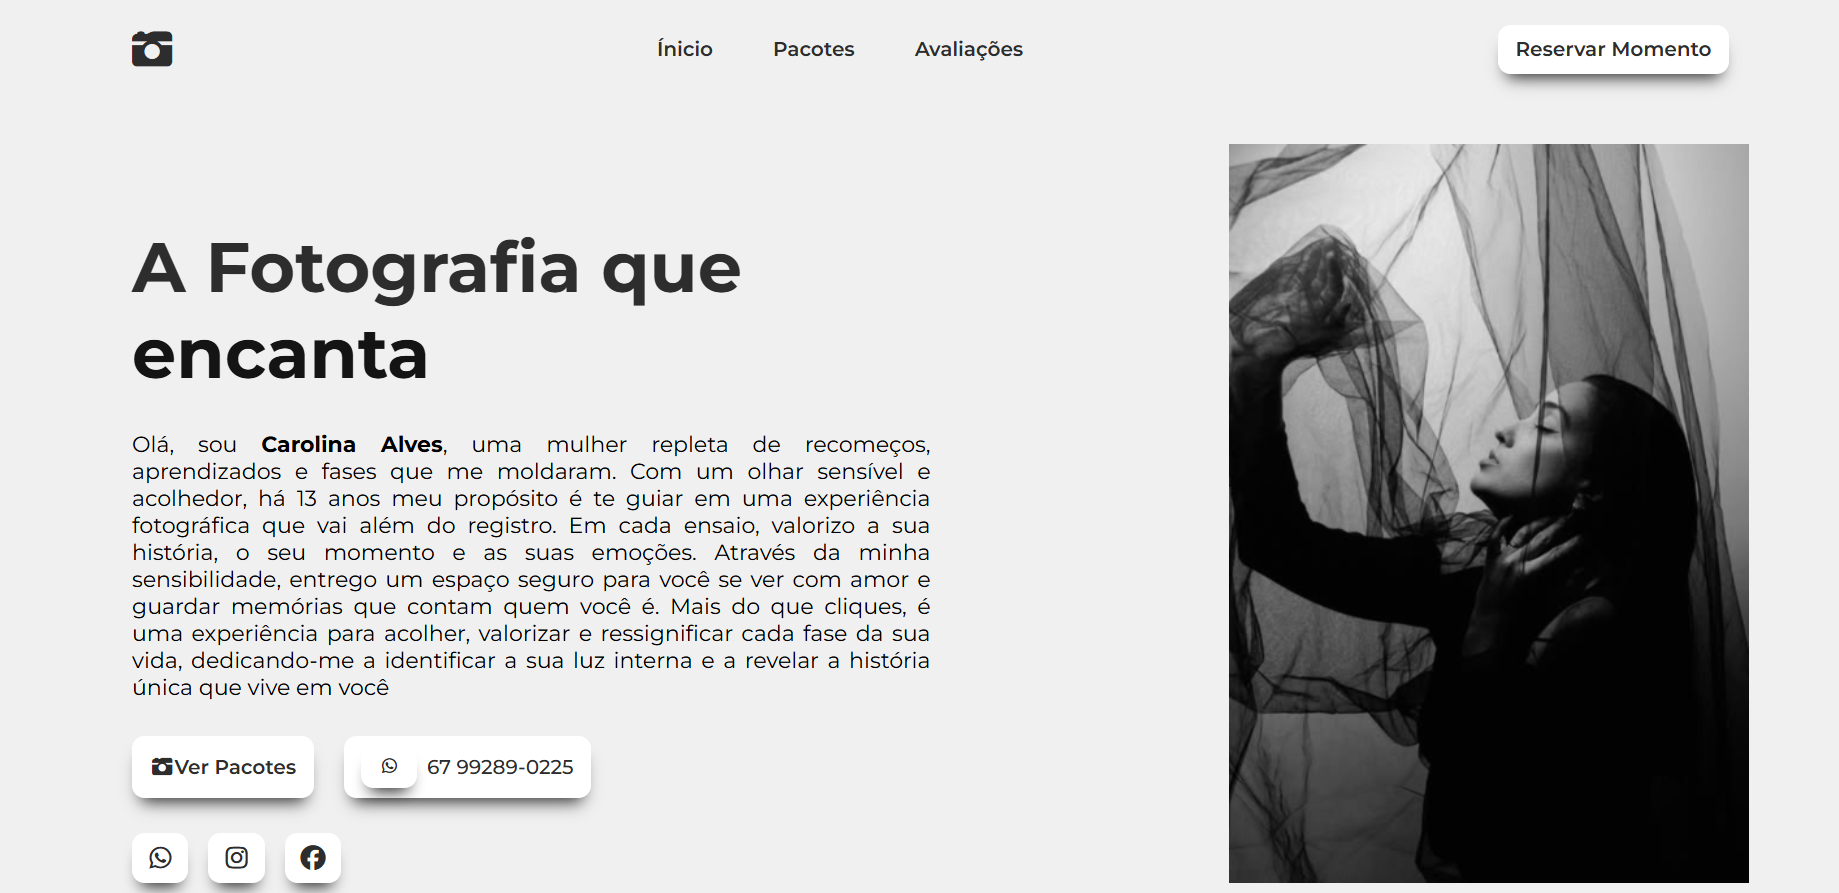
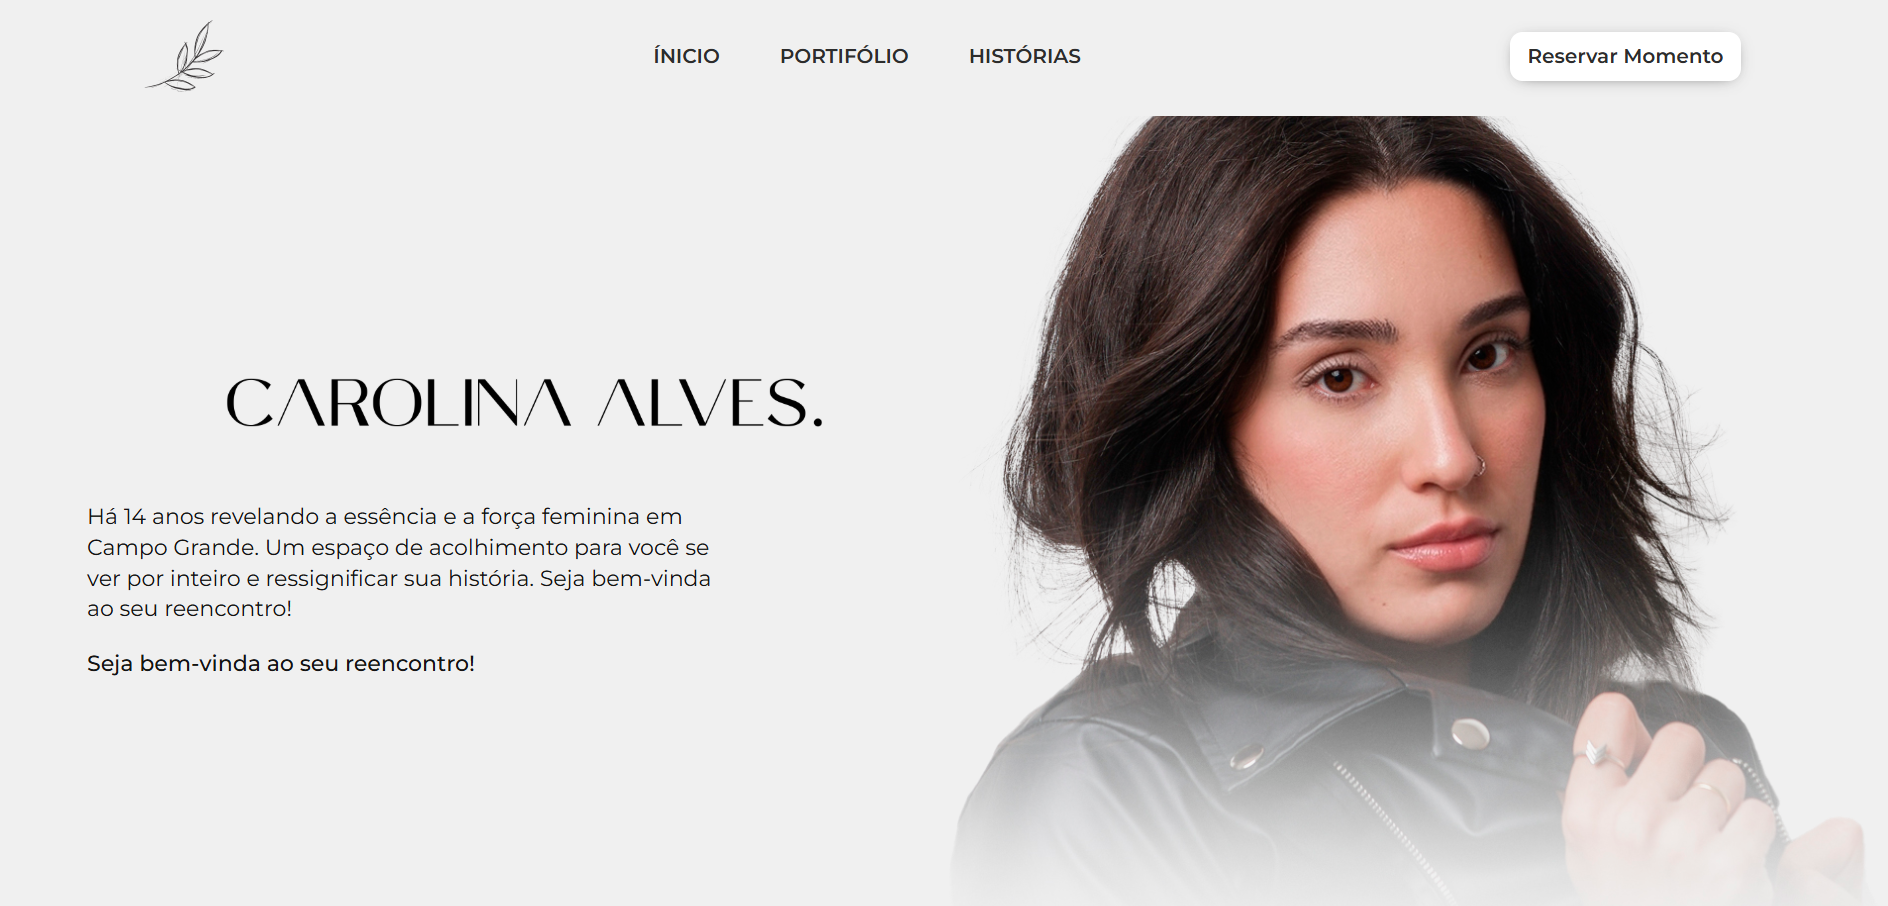
docs: refatora README com detalhes de SEO técnico e arquitetura modular

diff --git a/README.md b/README.md
@@ -1,37 +1,67 @@
+# 📸 Carolina Alves Fotografia | Landing Page Profissional
+
 ![Landing Page Preview](./preview/preview.png)
-✨ Funcionalidades
-Design Responsivo: Totalmente adaptável para visualização em desktops, tablets e celulares.
 
-Menu de Navegação Fixo: O menu acompanha o usuário durante a rolagem da página, garantindo fácil acesso às seções.
+Landing page de alta performance desenvolvida para a fotógrafa **Carolina Alves**, baseada em Campo Grande - MS. O projeto foca em uma experiência de usuário (UX) sensível e fluida, aliada a uma arquitetura técnica otimizada para SEO e conversão.
 
-Menu Mobile: Menu "hamburger" funcional para uma experiência de usuário otimizada em telas menores.
+---
 
-Animações de Scroll (Scroll Reveal): Elementos da página surgem suavemente conforme o usuário rola, implementado com a Intersection Observer API para máxima performance.
+## ✨ Funcionalidades e Diferenciais
 
-Links de Contato: Acesso rápido para contato via WhatsApp e redes sociais.
+### 📱 Experiência do Usuário (UX/UI)
 
-🚀 Tecnologias Utilizadas
-Este projeto foi construído utilizando as seguintes tecnologias:
+- **Design Responsivo Premium:** Layout adaptável para qualquer dispositivo (Desktop, Tablet e Mobile) utilizando **CSS Grid e Flexbox**.
+- **Navegação Inteligente:** Menu fixo (`sticky`) para acesso rápido e Menu Mobile (Hambúrguer) totalmente funcional em Vanilla JS.
+- **Carrosséis de Portfólio:** Galerias de imagens interativas implementadas sem dependências externas para garantir leveza e velocidade.
+- **Micro-interações:** Animações de _Scroll Reveal_ (elementos surgindo suavemente) utilizando a **Intersection Observer API** para máxima performance.
 
-HTML5: Para a estrutura semântica da página.
+### 🔍 SEO Técnico & Performance
 
-CSS3: Para a estilização, utilizando:
+- **SEO On-Page:** Uso de tags semânticas, meta descrições otimizadas e tag **Canonical** para evitar conteúdo duplicado.
+- **Structured Data (JSON-LD):** Implementação de Schema.org (`PhotographyBusiness`) para que o Google exiba _rich snippets_ e entenda melhor o negócio local.
+- **Indexação:** Projeto inclui arquivos `robots.txt` e `sitemap.xml` configurados para facilitar a leitura pelos motores de busca.
+- **Google Search Console:** Verificação de propriedade configurada via meta-tag para monitoramento de tráfego.
+- **Performance Otimizada:** Implementação de `loading="lazy"` em imagens de alta resolução para melhorar o tempo de carregamento inicial (LCP).
 
-Flexbox para o layout.
+---
 
-Media Queries para a responsividade.
+## 🚀 Tecnologias Utilizadas
 
-Variáveis CSS (Custom Properties) para fácil manutenção de temas e valores.
+### Core
 
-Transitions para animações suaves.
+- **HTML5 Semântico:** Estrutura focada em acessibilidade e relevância para o Google.
+- **CSS3 Modular:** Organização por componentes (`header.css`, `home.css`, `footer.css`) para facilitar a manutenção e escalabilidade.
+- **JavaScript (Vanilla JS):** Lógica pura para manipulação de DOM e animações, eliminando a necessidade de frameworks pesados.
 
-JavaScript (Vanilla JS): Para a interatividade, incluindo:
+### Bibliotecas & APIs
 
-Manipulação do DOM para o menu mobile.
+- **Intersection Observer API:** Para o controle inteligente de animações no scroll.
+- **Font Awesome:** Iconografia profissional para redes sociais e interface.
+- **Google Fonts:** Tipografia selecionada para reforçar o branding (Montserrat e Playfair Display).
 
-Intersection Observer API para o efeito de scroll reveal.
+---
+
+## 🛠 Estrutura do Projeto
+
+A arquitetura modular permite que cada seção do site seja estilizada de forma independente:
+
+```text
+/src
+├── /images          # Ativos de mídia, ícones e favicons
+├── footer.css       # Estilos específicos do rodapé e redes sociais
+├── header.css       # Estilos de navegação e menu mobile
+├── home.css         # Estilização da Hero Section e Portfólio
+├── testimonials.css # Layout da seção de depoimentos e avatares
+├── style.css        # Configurações globais e importação dos módulos
+├── index.html       # Estrutura principal e tags de SEO
+├── script.js        # Lógica de interatividade e observadores
+├── sitemap.xml      # Mapa do site para indexação
+└── robots.txt       # Instruções para rastreadores do Google
+```
 
 ✍ Autor
 Desenvolvido por José William.
 
 GitHub: @JoseWilliamRF
+
+Localização: Campo Grande - MS
